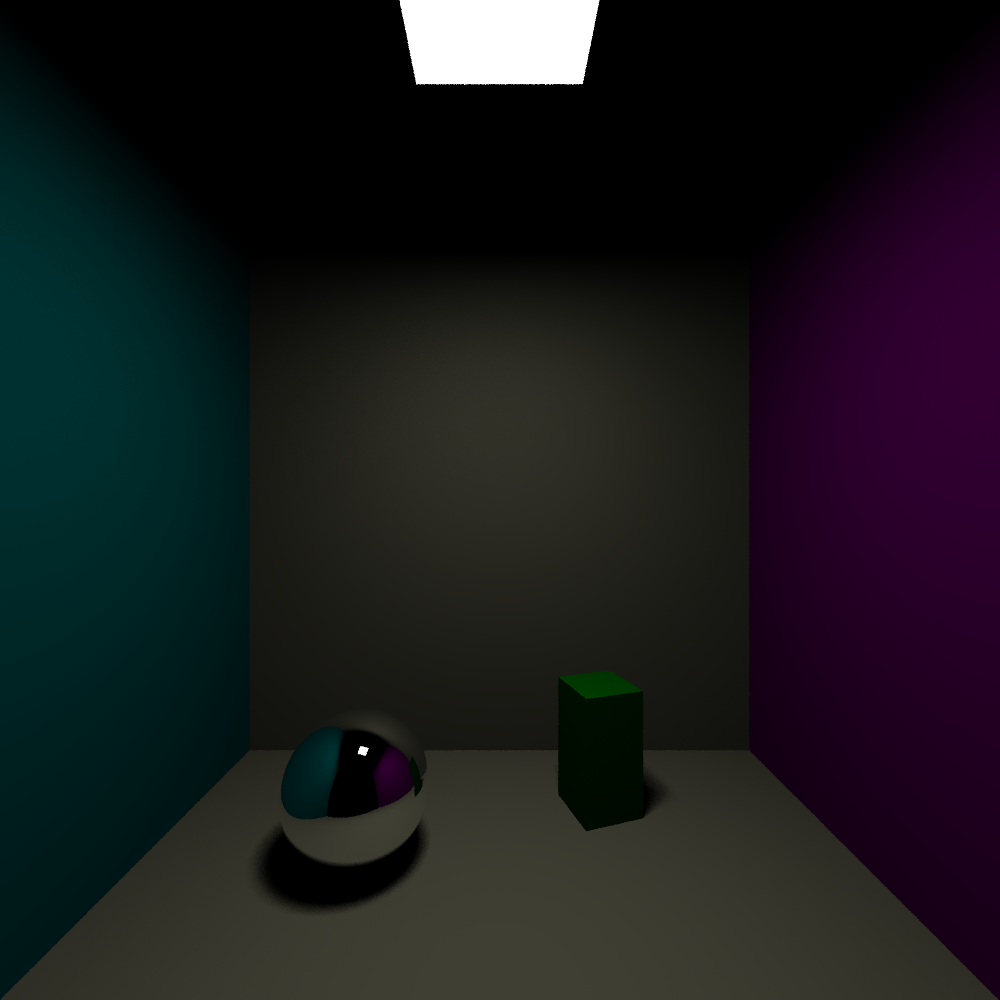
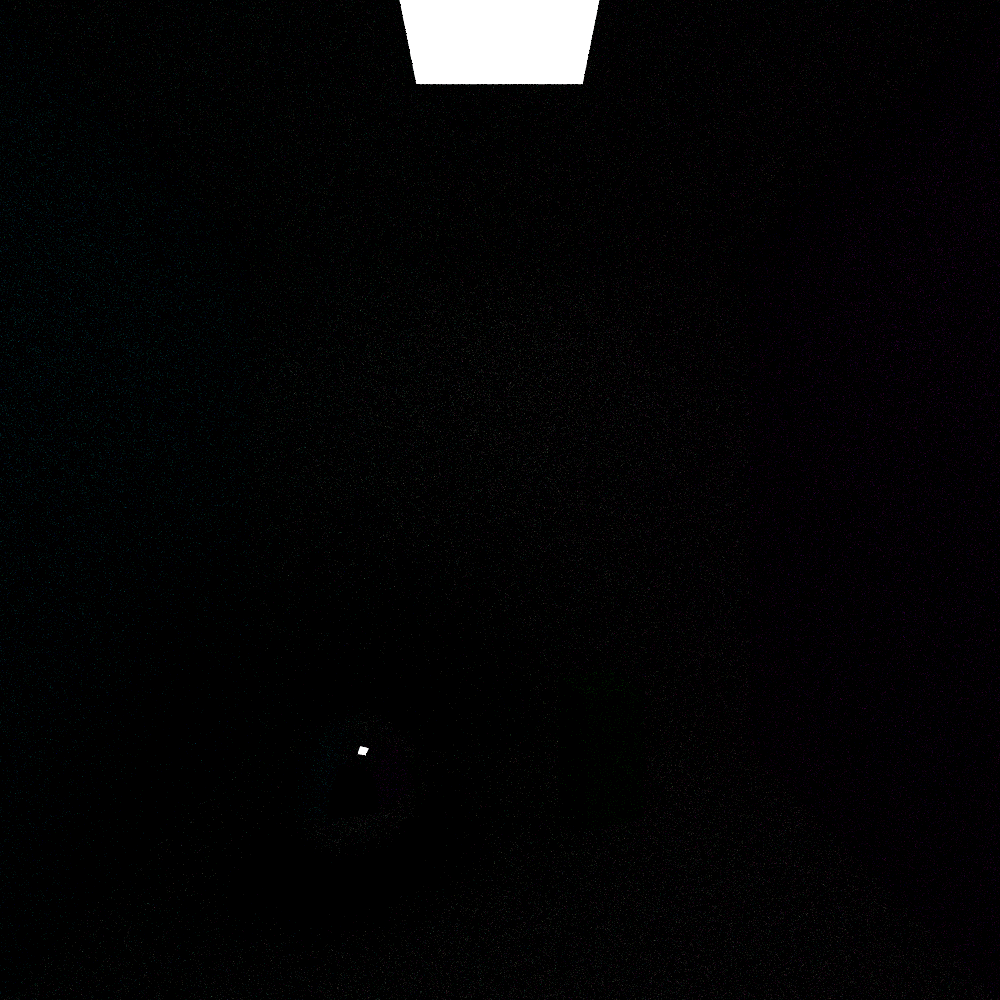
start refactoring

diff --git a/src/tracer/illumination.rs b/src/tracer/illumination.rs
@@ -1,33 +1,27 @@
-use crate::DVec3;
-use crate::consts::{SHADOW_RAYS, ETA};
+use crate::onb;
+use crate::rand_utils;
+use crate::consts::ETA;
 use crate::tracer::hit::Hit;
 use crate::tracer::ray::Ray;
-use crate::tracer::scene::Scene;
-use crate::tracer::texture::Texture;
 
-pub fn illuminate(texture: &Texture, h: &Hit, scene: &Scene) -> DVec3 {
-    texture.albedo_at(h.p)
-        * (scene.ambient +
-           scene.sample_lights_from(h).iter().map(|lh: &Hit| {
-               let r = Ray::new(
-                   h.p,
-                   lh.p - h.p,
-                   0,
-               );
-               h.object.scatter_pdf(&r, h)
-                   / lh.object.pdf(&r, lh)
-           }).fold(DVec3::ZERO, |acc, c| acc + c) / SHADOW_RAYS as f64)
+pub fn diffuse_scatter(h: &Hit, r: &Ray) -> Option<Ray> {
+    let (u, v) = onb::uvw_basis(h.norm);
+    Some(Ray::new(
+        h.p,
+        onb::to_uvw_basis(rand_utils::rand_unit_hemisphere(), u, v, h.norm),
+        r.depth
+    ))
 }
 
-pub fn reflect_ray(h: &Hit, r: &Ray) -> Ray {
-    Ray::new(
+pub fn reflect_ray(h: &Hit, r: &Ray) -> Option<Ray> {
+    Some(Ray::new(
         h.p,
         h.p - 2.0 * h.norm * h.p.dot(h.norm),
         r.depth,
-    )
+    ))
 }
 
-pub fn refract_ray(h: &Hit, r: &Ray) -> Ray {
+pub fn refract_ray(h: &Hit, r: &Ray) -> Option<Ray> {
     let eta_ratio = if h.object.inside(r) { ETA } else { 1.0 / ETA };
 
     /* Snell-Descartes law */
@@ -42,9 +36,9 @@ pub fn refract_ray(h: &Hit, r: &Ray) -> Ray {
     let dir = eta_ratio*up + h.norm *
         (eta_ratio*cos_in - (1.0 - sin_out).sqrt());
 
-    Ray::new(
+    Some(Ray::new(
         h.p,
         dir,
         r.depth,
-    )
+    ))
 }

diff --git a/src/tracer/material.rs b/src/tracer/material.rs
@@ -1,10 +1,8 @@
 use crate::DVec3;
-
-use crate::tracer::scene::Scene;
 use crate::tracer::hit::Hit;
 use crate::tracer::ray::Ray;
-use crate::tracer::texture::Texture;
 use crate::tracer::illumination;
+use crate::tracer::texture::Texture;
 
 pub enum Material {
     Diffuse(Texture),
@@ -16,13 +14,28 @@ pub enum Material {
 }
 
 impl Material {
-    pub fn color(&self, h: &Hit, s: &Scene, r: &Ray) -> DVec3 {
+    /* only lights emit */
+    pub fn emit(&self, h: &Hit) -> DVec3 {
         match self {
-            Self::Diffuse(t) => illumination::illuminate(t, h, s),
             Self::Light(t) => t.albedo_at(h.p),
-            Self::Mirror => illumination::reflect_ray(h, r).color(s),
-            Self::Glass => illumination::refract_ray(h, r).color(s),
             _ => DVec3::ZERO,
+        }
+    }
+
+    pub fn albedo(&self, h: &Hit) -> DVec3 {
+        match self {
+            Self::Diffuse(t) => t.albedo_at(h.p),
+            Self::Mirror | Self::Glass => DVec3::ONE,
+            _ => DVec3::ZERO,
+        }
+    }
+
+    pub fn scatter(&self, h: &Hit, r: &Ray) -> Option<Ray> {
+        match self {
+            Self::Diffuse(_) => illumination::diffuse_scatter(h, r),
+            Self::Mirror => illumination::reflect_ray(h, r),
+            Self::Glass => illumination::refract_ray(h, r),
+            _ => None,
         }
     }
 

diff --git a/src/rand_utils.rs b/src/rand_utils.rs
@@ -45,15 +45,27 @@ pub fn unit_square_to_unit_disk(rand_sq: DVec2) -> DVec2 {
     }
 }
 
-/* uniform random DVec3 in unit sphere */
-pub fn rand_unit_sphere() -> DVec3 {
-    let r1 = rand_f64();
-    let r2 = rand_f64();
+/* uniform random DVec3 in hemisphere pointing towards +z */
+pub fn rand_unit_hemisphere() -> DVec3 {
+    let sq = rand_unit_square();
+
+    let phi = 2.0 * PI * sq.x;
 
     DVec3::new(
-        (2.0*PI*r1).cos()*2.0*(r2*(1.0 - r2)).sqrt(),
-        (2.0*PI*r1).sin()*2.0*(r2*(1.0 - r2)).sqrt(),
-        1.0 - 2.0*r2,
+        phi.cos() * sq.y.sqrt(),
+        phi.sin() * sq.y.sqrt(),
+        (1.0 - sq.y).sqrt(),
+    )
+}
+
+/* uniform random DVec3 in unit sphere */
+pub fn rand_unit_sphere() -> DVec3 {
+    let sq = rand_unit_square();
+
+    DVec3::new(
+        (2.0 * PI * sq.x).cos() * 2.0 * (sq.y * (1.0 - sq.y)).sqrt(),
+        (2.0 * PI * sq.x).sin() * 2.0 * (sq.y * (1.0 - sq.y)).sqrt(),
+        1.0 - 2.0 * sq.y,
     )
 }
 

diff --git a/src/tracer/ray.rs b/src/tracer/ray.rs
@@ -28,15 +28,17 @@ impl Ray {
         }
 
         match scene.hit(self) {
-            Some(h) => h.object.material().color(&h, scene, self),
-            // bright green for debug
+            Some(h) => {
+                let material = h.object.material();
+                material.emit(&h)
+                    + material.albedo(&h)
+                    * material.scatter(&h, self).map_or(DVec3::ZERO, |r: Ray| {
+                        r.color(scene) * h.object.scatter_pdf(&r, &h)
+                            / h.object.scatter_pdf(&r, &h)
+                    })
+            }
+            /* bright green background for debug */
             None => DVec3::new(0.0, 1.0, 0.0),
-            /*{
-                /* add different scene types? night, day, etc.. */
-                let u = self.dir.normalize();
-                let t: f64 = 0.5*(u.y + 1.0);
-                (1.0 - t)*DVec3::ONE + t*DVec3::ZERO
-            }*/
         }
     }
 }

diff --git a/src/tracer/object.rs b/src/tracer/object.rs
@@ -1,5 +1,6 @@
 use crate::{DVec3, DMat3, DVec2, DAffine3};
 use std::f64::consts::PI;
+use crate::onb;
 use crate::rand_utils;
 use crate::consts::EPSILON;
 use crate::tracer::ray::Ray;
@@ -12,25 +13,6 @@ mod plane_tests;
 
 pub mod sphere;
 pub mod triangle;
-
-/* w normalized. returns orthonormal uvw-basis */
-fn _uvw_basis(w: DVec3) -> (DVec3, DVec3) {
-    let a = if w.x.abs() > 0.9 {
-        DVec3::new(0.0, 1.0, 0.0)
-    } else {
-        DVec3::new(1.0, 0.0, 0.0)
-    };
-
-    let v = w.cross(a).normalize();
-    let u = w.cross(v);
-
-    (u, v)
-}
-
-/* transform k to uvw orthonormal basis */
-fn _k_to_uvw_basis(k: DVec3, u: DVec3, v: DVec3, w: DVec3) -> DVec3 {
-    k.x*u + k.y*v + k.z*w
-}
 
 /* make sure normal points the right way for triangle/plane/sphere */
 fn _orient_normal(n: DVec3, r: &Ray) -> DVec3 {

diff --git a/src/tracer/object/sphere.rs b/src/tracer/object/sphere.rs
@@ -66,7 +66,7 @@ impl Object for Sphere {
         /* uvw-basis orthonormal basis,
          * where w is the direction from x to origin of this sphere. */
         let w = (self.origin - h.p).normalize();
-        let (u, v) = _uvw_basis(w);
+        let (u, v) = onb::uvw_basis(w);
 
         let dist_light = h.p.distance_squared(self.origin);
 
@@ -79,7 +79,7 @@ impl Object for Sphere {
 
         Ray::new(
             h.p,
-            _k_to_uvw_basis(DVec3::new(x, y, z), u, v, w),
+            onb::to_uvw_basis(DVec3::new(x, y, z), u, v, w),
             0,
         )
     }

diff --git a/src/tracer/scene.rs b/src/tracer/scene.rs
@@ -29,9 +29,11 @@ type PixelSampler = JitteredSampler;
 
 impl Scene {
     pub fn new(amb: DVec3, objs: Vec<Box<dyn Object>>) -> Self {
-        let lights = (0..objs.len()).map(|i: usize| match objs[i].material() {
-            Material::Light(_) => i,
-            _ => objs.len(),
+        let lights = (0..objs.len()).map(|i: usize| {
+            match objs[i].material() {
+                Material::Light(_) => i,
+                _ => objs.len(),
+            }
         }).filter(|i: &usize| *i != objs.len()).collect();
 
         Self {

diff --git a/src/onb.rs b/src/onb.rs
@@ -1,0 +1,20 @@
+use crate::DVec3;
+
+/* w normalized. returns orthonormal uvw-basis */
+pub fn uvw_basis(w: DVec3) -> (DVec3, DVec3) {
+    let a = if w.x.abs() > 0.9 {
+        DVec3::new(0.0, 1.0, 0.0)
+    } else {
+        DVec3::new(1.0, 0.0, 0.0)
+    };
+
+    let v = w.cross(a).normalize();
+    let u = w.cross(v);
+
+    (u, v)
+}
+
+/* transform k to uvw orthonormal basis */
+pub fn to_uvw_basis(k: DVec3, u: DVec3, v: DVec3, w: DVec3) -> DVec3 {
+    k.x*u + k.y*v + k.z*w
+}

diff --git a/src/renderer.rs b/src/renderer.rs
@@ -6,7 +6,7 @@ use crate::tracer::scene::Scene;
 use crate::tracer::camera::Camera;
 use rayon::iter::{ParallelIterator, IntoParallelIterator};
 
-type PxSampler = UniformSampler;
+type PxSampler = JitteredSampler;
 
 pub fn _render(
     img_height: usize,

diff --git a/src/main.rs b/src/main.rs
@@ -2,6 +2,7 @@ use glam::{UVec3, f64::{DVec3, DMat3, DVec2, DAffine3}};
 use crate::tracer::scene::Scene;
 use crate::tracer::camera::Camera;
 
+mod onb;
 mod image;
 mod tracer;
 mod consts;
